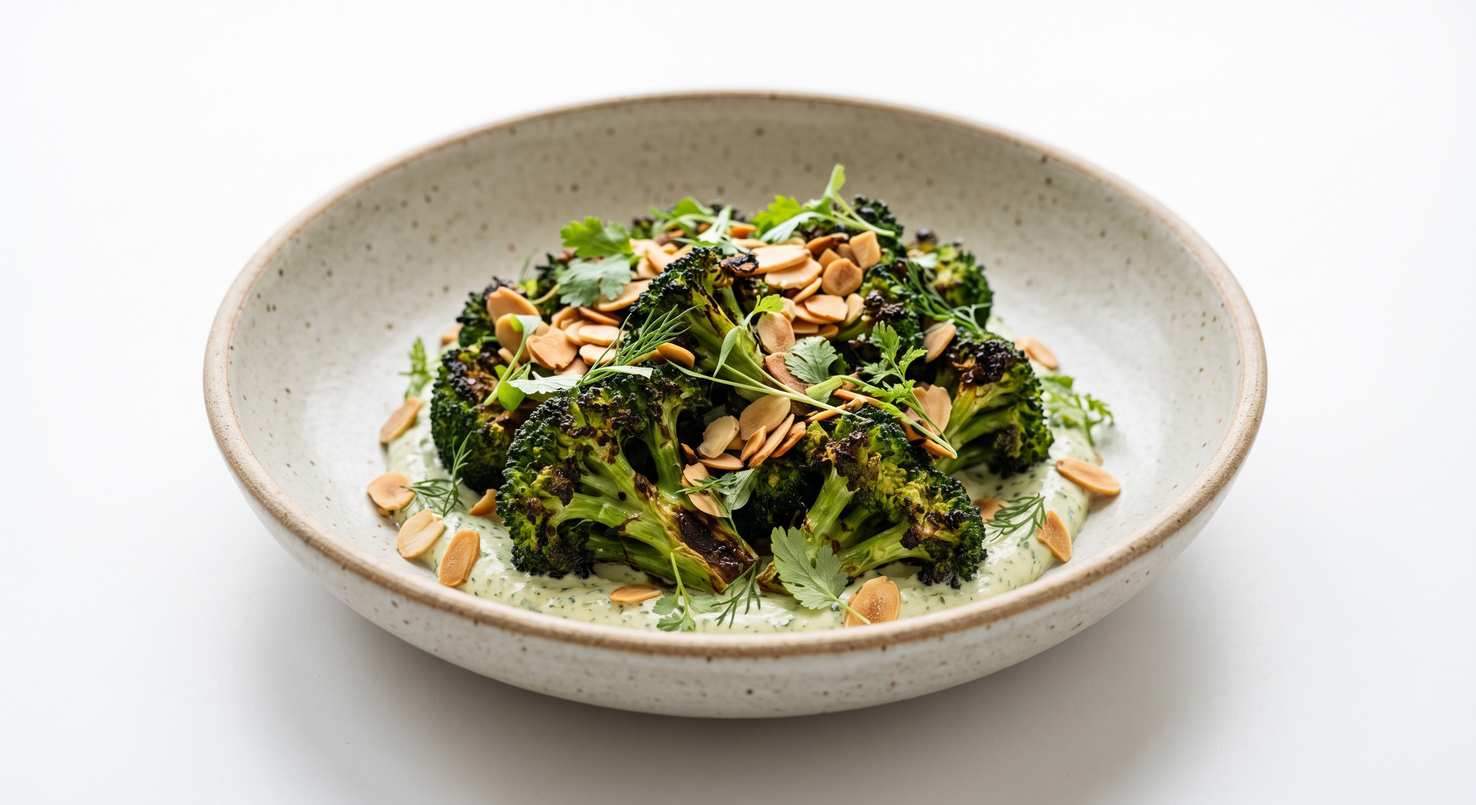
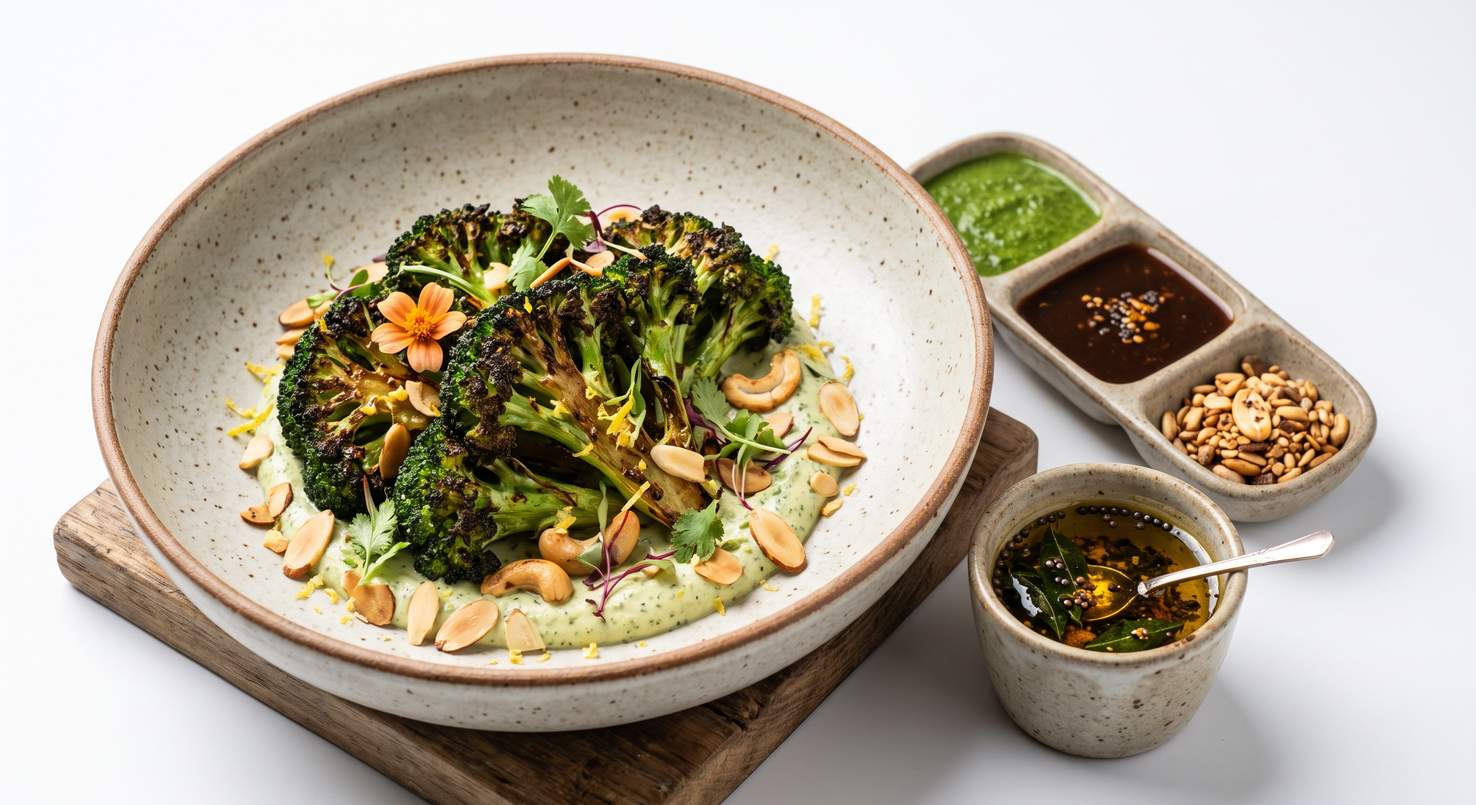
Elevate Indian Kitchen plating to top-restaurant multi-vessel style
Rebuilt prompts around the pani puri reference: each dish now composed
with multiple serving vessels (side chutney cups, compartment trays,
banana leaf accents) plus deliberate garnish, matching the level of
craft at restaurants like Semma and Bungalow instead of a single pile
of food in one bowl. Added Pani Puri Flight as a new reference dish.

diff --git a/indian-kitchen-menu-photography/build_items.py b/indian-kitchen-menu-photography/build_items.py
@@ -2,19 +2,30 @@
 """Builds items.json for the Indian Kitchen menu photo shoot (new project,
 separate from The Theater). White studio background for all dish photos so
 they can be cleanly cut out and composited onto the burgundy/gold page
-layouts later."""
+layouts later. Plating aims for the level of craft seen at top modern
+Indian restaurants (Semma, Bungalow, Dhamaka) — multi-vessel compositions,
+not a single pile of food in one bowl."""
 import json
 import re
 
 STYLE_SUFFIX = (
-    "Bright, premium, LIGHT and WHITE studio background: clean white "
-    "seamless backdrop, soft even studio lighting, minimal soft shadow, "
-    "high-end editorial food photography look, elevated three-quarter "
-    "angle looking down at the plate. Shallow depth of field, tack-sharp "
-    "focus on the food. No text, no logos, no hands, no cutlery unless "
-    "specified, no watermarks, no candles, no glassware, no restaurant "
-    "background of any kind — pure white studio only. Photorealistic, "
-    "professional restaurant menu photography, ultra-detailed, 2K quality."
+    "Ultra-premium, fine-dining editorial food photography in the style "
+    "of top modern Indian restaurants like Semma, Bungalow and Dhamaka — "
+    "thoughtfully composed, multi-component plating with genuine "
+    "restaurant craft, never a single generic pile of food in one bowl. "
+    "Bright, clean white studio background: seamless white backdrop, "
+    "soft directional studio lighting from one side, soft natural "
+    "shadow, elevated three-quarter angle looking down at the full "
+    "composition. Intentional asymmetry in the arrangement, a mix of "
+    "serving vessels where appropriate (small ceramic cups, "
+    "compartmented dip trays, a banana leaf accent), a few deliberate, "
+    "well-placed garnishes (fresh microgreens, one or two edible "
+    "flowers, toasted nuts) that read as chef styling, not scattered "
+    "decoration. Sauces and chutneys look vivid and freshly made. "
+    "Photorealistic, shot on a full-frame camera, ultra-detailed, "
+    "natural food texture, 2K quality. No text, no logos, no hands, no "
+    "watermark, no restaurant background of any kind — pure white "
+    "studio only."
 )
 
 PLATEWARE = {
@@ -59,34 +70,52 @@ items = [
         "Charred Sweet Potato & Chickpea Salad",
         "speckled_pale_bowl",
         "Thick roasted sweet potato wedges with deeply charred edges, tossed with crispy roasted chickpeas, "
-        "dolloped with swirls of thick yogurt, drizzled with a glossy dark tamarind-date glaze, scattered with "
-        "fresh micro herbs and a few edible purple flowers for color.",
+        "dolloped with swirls of thick yogurt and a glossy dark tamarind-date glaze, finished with a scatter "
+        "of toasted cashews and bright pomegranate arils for pops of color, a small copper cup of extra "
+        "tamarind-date chutney set beside the bowl, a few fresh micro herbs and one or two edible flowers, "
+        "plated with confident intentional asymmetry rather than centered.",
     ),
     item(
         "Spiced Lamb Keema Samosas",
         "speckled_charcoal_plate",
         "Two large golden-fried triangular samosas with a crisp blistered shell, one cut open to reveal a "
-        "rich spiced minced lamb filling studded with peas, served with a small copper bowl of vivid green "
-        "mint-coriander chutney and a few micro herb leaves scattered on the plate.",
+        "rich spiced minced lamb filling studded with peas, served alongside a small three-compartment "
+        "ceramic dip tray holding tamarind chutney, mint-coriander chutney and quick-pickled red onion, "
+        "garnished with a few coriander microgreens and one edible flower.",
     ),
     item(
         "Aloo Tikki Chaat",
         "speckled_tan_bowl",
         "Four golden-crusted potato tikki patties nestled in a bed of spiced chickpea curry, generously "
         "drizzled with thick yogurt, tangy tamarind chutney and vivid green mint chutney, topped with fine "
-        "crispy sev and finely diced red onion.",
+        "crispy sev, finely diced red onion and a scatter of pomegranate arils, a small copper cup of extra "
+        "tamarind chutney set beside the bowl, finished with coriander microgreens and one edible flower.",
     ),
     item(
         "Charred Broccoli, Almond & Herb Cream",
         "speckled_pale_bowl",
         "Deeply charred broccoli florets with blistered edges mounded over a smooth pale herb cream, "
-        "scattered with toasted sliced almonds and a few fresh micro herb leaves.",
+        "scattered with toasted sliced almonds and cashews, a small side cup of sizzling curry-leaf and "
+        "mustard-seed tempering oil to drizzle, finished with a few fresh micro herb leaves and one edible "
+        "flower.",
     ),
     item(
         "Whole Roasted Cauliflower, Cashew Curry",
         "speckled_pale_bowl",
         "One whole roasted cauliflower head with a deeply charred golden-brown spiced crust, sitting in a "
-        "pool of rich creamy cashew curry sauce, scattered with whole roasted cashews and fresh coriander.",
+        "pool of rich creamy cashew curry sauce, topped with crisp-fried curry leaves and whole roasted "
+        "cashews, a lime wedge and a small copper cup of extra curry sauce set beside the bowl, finished "
+        "with fresh coriander and one edible flower.",
+    ),
+    item(
+        "Pani Puri Flight",
+        "speckled_charcoal_plate",
+        "Six crisp round puri shells, each with a small opening on top filled with spiced potato, chickpea "
+        "and a sprig of micro herb, arranged on a fresh banana leaf accent, beside them three small ceramic "
+        "cups each holding a different colored pani — vivid green mint-jaljeera, deep reddish-brown tamarind, "
+        "and pale yellow-green raw mango-coriander — each dotted with a few boondi and a floating mint leaf, "
+        "plus a small three-compartment ceramic tray holding tamarind chutney, mint chutney and finely diced "
+        "onion, finished with a scatter of coriander microgreens and two edible flowers (yellow and purple).",
     ),
 ]
 
